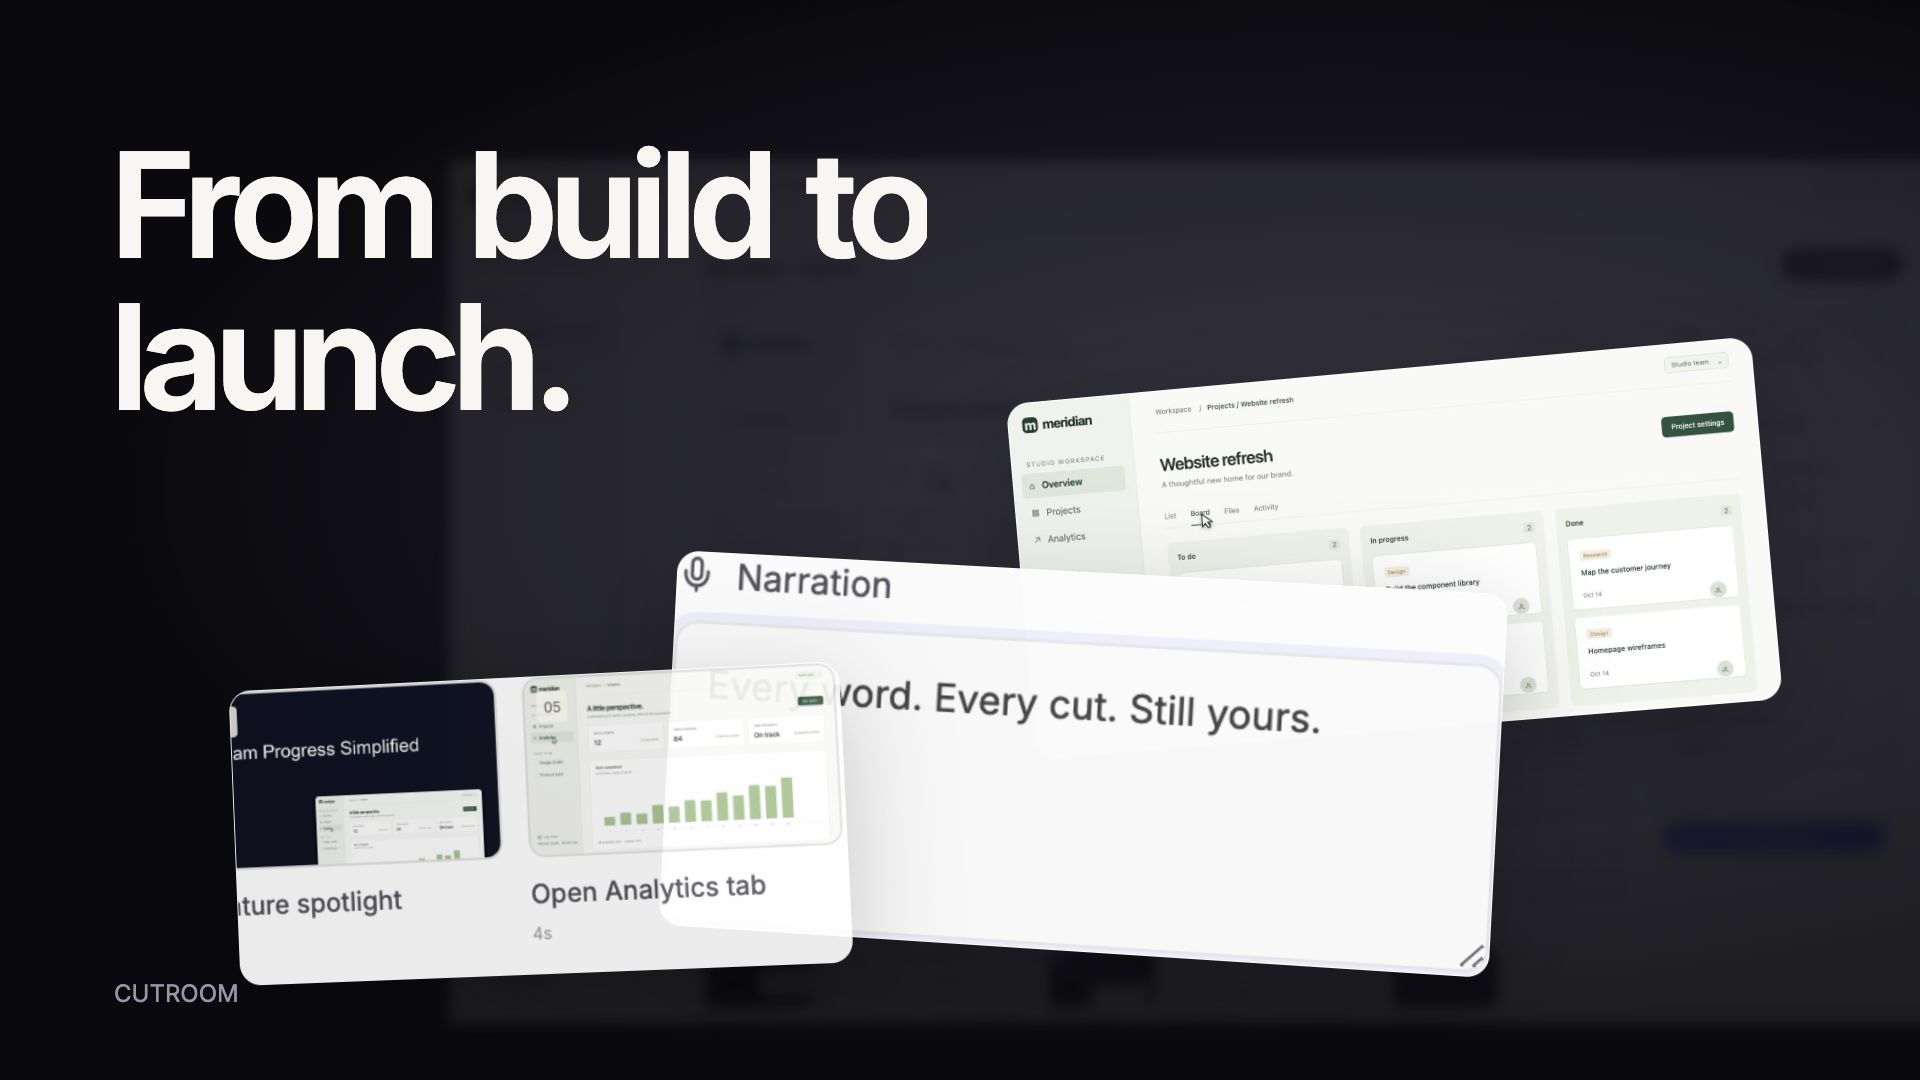
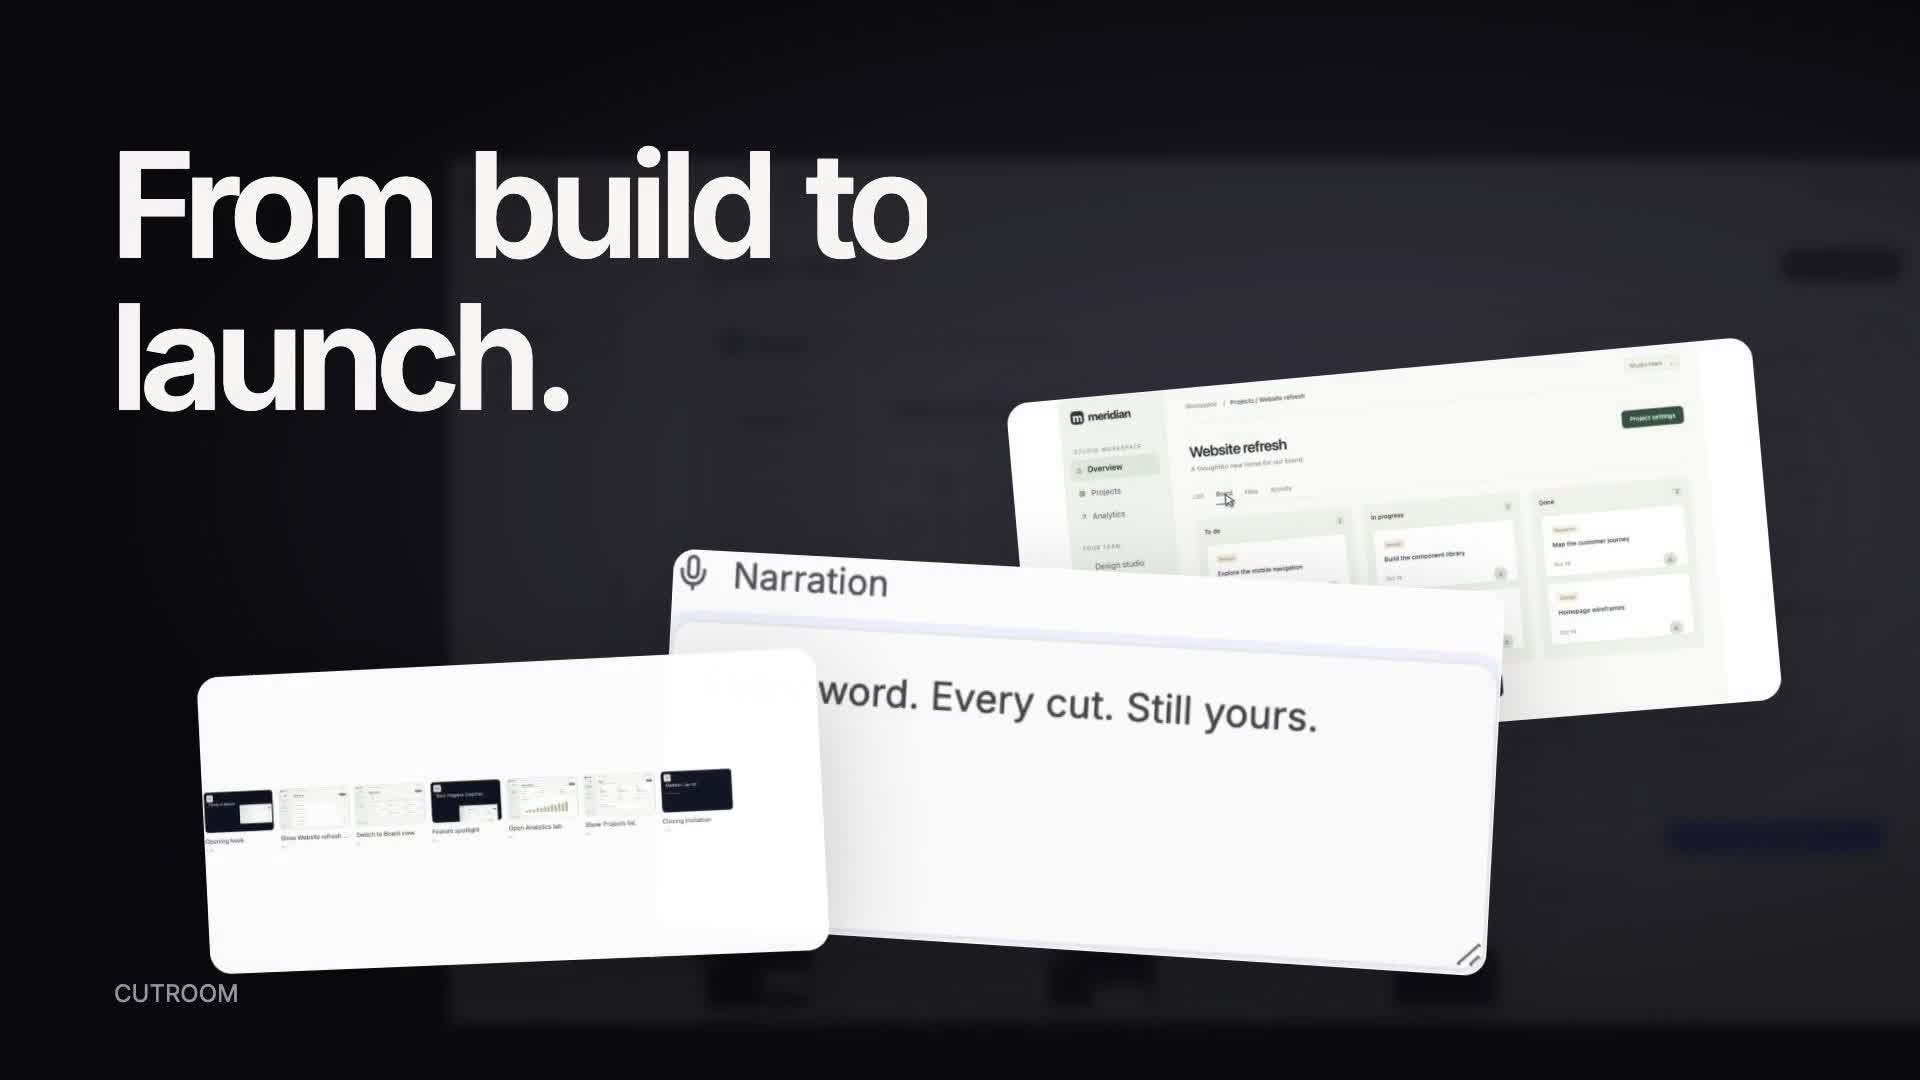
Align filmed results and frame meaningful product details

diff --git a/src/video/LaunchShot.tsx b/src/video/LaunchShot.tsx
@@ -105,13 +105,19 @@ export function LaunchShot(props: ShotProps) {
     const move = segment(t, 0.04, 0.34);
     const release = segment(t, 0.7, 1);
     const zoom = 1 + 0.62 * move * (1 - release);
+    const travel = move * (1 - release);
+    const offset = (center: number, size: number) =>
+      Math.max(
+        (-(zoom - 1) * size) / 2,
+        Math.min(((zoom - 1) * size) / 2, (0.5 - center) * size * zoom * travel),
+      );
     return (
       <AbsoluteFill style={{ background: bg }}>
         <Product
           props={props}
           style={{
-            transform: `scale(${zoom})`,
-            transformOrigin: `${focus.x * 100}% ${focus.y * 100}%`,
+            transform: `translate(${offset(focus.x, 1920)}px, ${offset(focus.y, 1080)}px) scale(${zoom})`,
+            transformOrigin: '50% 50%',
           }}
         />
         <div
@@ -249,10 +255,7 @@ export function LaunchShot(props: ShotProps) {
                 transform: `translate(${(1 - enter) * 380 + leave * (i - 1) * 650}px, ${(1 - enter) * 180 + leave * 280}px) rotateX(${mix(16, 0, enter)}deg) rotateY(${mix(-14, -3, enter)}deg) rotateZ(${[-5, 3, -3][i]}deg) scale(${mix(0.88, 1, enter)})`,
               }}
             >
-              <Img
-                src={src}
-                style={{ width: '100%', height: '100%', objectFit: 'cover', objectPosition: 'top' }}
-              />
+              <Img src={src} style={{ width: '100%', height: '100%', objectFit: 'contain' }} />
             </div>
           );
         })}

diff --git a/server/video_alignment.py b/server/video_alignment.py
@@ -1,0 +1,76 @@
+"""Find verified result screens on the recording's clock, not the browser's wall clock."""
+
+import re
+import subprocess
+from pathlib import Path
+
+import numpy as np
+from PIL import Image
+
+from server.video_render import FFMPEG
+
+
+def align_result_shots(raw: Path, folder: Path, scenes: list[dict]) -> None:
+    targets = []
+    for scene in scenes:
+        if scene.get("shot") != "result":
+            continue
+        name = scene.get("thumbnail", "")
+        if not re.fullmatch(r"scene-\d{1,2}\.jpg", name):
+            raise ValueError("Invalid screen evidence for recording alignment.")
+        with Image.open(folder / name) as image:
+            target = np.asarray(image.convert("L").resize((160, 90)), dtype=float)
+        targets.append((scene, target, []))
+    if not targets:
+        return
+    # Streaming keeps memory bounded even for long browser sessions.
+    with subprocess.Popen(
+        [
+            FFMPEG,
+            "-v",
+            "error",
+            "-i",
+            str(raw),
+            "-vf",
+            "fps=5,scale=160:90",
+            "-f",
+            "rawvideo",
+            "-pix_fmt",
+            "gray",
+            "-",
+        ],
+        stdout=subprocess.PIPE,
+        stderr=subprocess.DEVNULL,
+    ) as process:
+        while data := process.stdout.read(160 * 90):
+            if len(data) != 160 * 90:
+                raise ValueError("Incomplete frame while aligning recording.")
+            frame = np.frombuffer(data, dtype=np.uint8).reshape(90, 160).astype(float)
+            for _, target, scores in targets:
+                scores.append(float(np.mean(np.abs(frame - target))))
+        if process.wait():
+            raise ValueError("Could not align the captured product screens.")
+    previous_end = 0
+    for scene, _, values in targets:
+        scores = np.array(values)
+        times = np.arange(len(scores)) / 5
+        allowed = (times >= previous_end) & (abs(times - scene["start"]) <= 15)
+        if not allowed.any():
+            raise ValueError("No recorded frames match the requested shot order.")
+        best = float(np.min(scores[allowed]))
+        if best > 2.5:
+            raise ValueError(
+                "A result screen could not be verified in the recording. Try another take."
+            )
+        matches = np.flatnonzero(allowed & (scores <= best + 0.25))
+        runs = np.split(matches, np.where(np.diff(matches) > 1)[0] + 1)
+        runs = [run for run in runs if len(run) >= 4]
+        if not runs:
+            raise ValueError("The result screen did not stay visible long enough to film.")
+        run = min(runs, key=lambda r: abs(r[0] / 5 - scene["start"]))
+        # Leave a frame margin on each edge; the renderer holds the last real frame if needed.
+        start, end = float(run[0] / 5 + 0.1), float(run[-1] / 5 - 0.1)
+        scene["capture_start"], scene["capture_end"] = scene["start"], scene["end"]
+        scene["start"], scene["end"] = start, end
+        scene["alignment_error"] = round(best, 3)
+        previous_end = end

diff --git a/tests/test_video_composition.py b/tests/test_video_composition.py
@@ -9,6 +9,7 @@ from PIL import Image
 from pydantic import ValidationError
 
 from server import video_composition
+from server.video_alignment import align_result_shots
 from server.video_models import TimelineClip
 from server.video_render import ffmpeg, original_music, transition_cues
 
@@ -85,6 +86,39 @@ def test_only_reviewed_motion_presets_are_accepted():
     with pytest.raises(ValidationError):
         TimelineClip(id="x", motion="execute-javascript")
     assert TimelineClip(id="x").motion == "none"  # Old projects retain their original rendering.
+
+
+def test_result_alignment_finds_screen_despite_wrong_browser_clock(tmp_path, capture):
+    Image.new("RGB", (320, 180), "blue").save(tmp_path / "scene-0.jpg")
+    scenes = [{"shot": "result", "thumbnail": "scene-0.jpg", "start": 0, "end": 0.8}]
+    align_result_shots(capture, tmp_path, scenes)
+    assert scenes[0]["start"] >= 1
+    assert scenes[0]["end"] <= 2
+    assert scenes[0]["capture_start"] == 0
+
+
+def test_result_alignment_rejects_screen_absent_from_recording(tmp_path, capture):
+    Image.new("RGB", (320, 180), "white").save(tmp_path / "scene-0.jpg")
+    with pytest.raises(ValueError, match="could not be verified"):
+        align_result_shots(
+            capture,
+            tmp_path,
+            [{"shot": "result", "thumbnail": "scene-0.jpg", "start": 0, "end": 1}],
+        )
+
+
+def test_panel_treatment_without_regions_uses_complete_screen(tmp_path, capture, monkeypatch):
+    monkeypatch.setattr(video_composition, "run_compositor", lambda *args: None)
+    video_composition.prepare_compositions(
+        tmp_path,
+        capture,
+        [{"motion": "panels", "start": 0, "end": 1, "duration": 1}],
+        "paper",
+        [None],
+    )
+    job = json.loads((tmp_path / "motion-jobs.json").read_text())["jobs"][0]
+    assert job["preset"] == "reveal"
+    assert job["details"] == []
 
 
 def test_sound_cues_are_repeatable_and_do_not_clip(tmp_path):

diff --git a/server/video_service.py b/server/video_service.py
@@ -17,6 +17,7 @@ from fastapi import HTTPException
 
 from server.network import public_target
 from server.store import LOCAL_DEMO, Store
+from server.video_alignment import align_result_shots
 from server.video_models import (
     STOCK_VOICES,
     GenerateClipInput,
@@ -292,11 +293,12 @@ def film(store: Store, job: dict, body: VideoInput):
             if not completed:
                 raise ValueError("Recording exceeded its time limit. Try a shorter feature brief.")
             scenes = completed["scenes"]
-            job["payload"]["scenes"] = [{**scene, "narration": ""} for scene in scenes]
             raw = Path(completed["video"]).resolve()
             if raw.parent != folder:
                 raise ValueError("Invalid browser artifact.")
             (folder / "raw.webm").write_bytes(raw.read_bytes())
+            align_result_shots(folder / "raw.webm", folder, scenes)
+            job["payload"]["scenes"] = [{**scene, "narration": ""} for scene in scenes]
             event(
                 store,
                 job,

diff --git a/server/video_composition.py b/server/video_composition.py
@@ -105,15 +105,9 @@ def prepare_compositions(
             with Image.open(folder / name) as im:
                 im.convert("RGB").save(target)
             details.append(target.name)
-        if not details:
-            # Crop actual pixels for old recordings that predate element-level capture.
-            with Image.open(product) as im:
-                for j, box in enumerate(
-                    ((390, 210, 1380, 750), (810, 190, 1890, 820), (300, 490, 1380, 1060))
-                ):
-                    target = folder / f"motion-detail-{i}-{j}.png"
-                    im.crop(box).save(target)
-                    details.append(target.name)
+        if preset == "panels" and len(details) < 2:
+            # Unverified crops often magnify blank space. Reveal the complete real screen instead.
+            preset = "reveal"
         footage = None
         if preset == "detail":
             footage = folder / f"motion-footage-{i}.mp4"

diff --git a/server/video_timeline.py b/server/video_timeline.py
@@ -52,8 +52,9 @@ def launch_clips(
     # Keep source clips recoverable, but do not repeat an establishing screen before the feature.
     for clip, source in zip(originals, scenes, strict=True):
         clip["enabled"] = not (len(scenes) > 1 and source.get("action") == "overview")
-        clip["camera"] = "push" if source.get("shot") == "result" else "wide"
-        clip["motion"] = "detail" if source.get("shot") == "result" else "none"
+        has_detail = source.get("shot") == "result" and bool(source.get("details"))
+        clip["camera"] = "wide"
+        clip["motion"] = "detail" if has_detail else "none"
     scripts = plan.get("narration", [])
     if isinstance(scripts, list) and len(scripts) == len(originals):
         for clip, script in zip(originals, scripts, strict=True):

diff --git a/tests/test_video_timeline.py b/tests/test_video_timeline.py
@@ -94,6 +94,17 @@ def test_launch_plan_contains_real_captures_between_three_editable_cards():
     assert len(compile_timeline(source, [TimelineClip.model_validate(c) for c in draft])) == 5
 
 
+def test_launch_camera_only_targets_verified_detail_regions():
+    scenes = job()["payload"]["scenes"]
+    for scene in scenes:
+        scene["shot"] = "result"
+    scenes[1]["details"] = ["detail-1-0.png"]
+    clips = [c for c in launch_clips(scenes, "Product") if c["kind"] == "browser"]
+    assert clips[0]["motion"] == "none"
+    assert clips[0]["camera"] == "wide"
+    assert clips[1]["motion"] == "detail"
+
+
 def test_veo_uses_bounded_duration_and_actionable_quota_error(monkeypatch):
     monkeypatch.setattr(
         video_generation,

diff --git a/README.md b/README.md
@@ -48,7 +48,7 @@ Open **http://127.0.0.1:5173**. The browser creates an anonymous Supabase worksp
 
 The default **Launch film** targets 30 seconds, with 2–4-second shots, brief animated typography, full-screen product footage, and clean cuts. Opening and spotlight reveals expand the exact first frame of the following trimmed shot to fill the canvas. The redundant overview is cut but can be restored. Typography is silent by default, reserving narration for product footage. **Product walkthrough** keeps only browser footage. In existing projects, **Add launch sequence** drafts opening, benefit, and closing copy and shortens narration from the verified captured scenes. Every line remains editable. Cuts are non-destructive: original captures remain intact, and a cut scene can be restored.
 
-New launch plans use frame-driven **Remotion** compositions: continuous product reveals, layered interface details, a closer camera that returns to the overview, and masked word reveals. Browser capture records at 1080p and saves higher-resolution screenshots of visible interface regions. Existing captures use crops of their actual pixels when separate elements are unavailable. In **Script → Motion treatment**, choose or remove a treatment for each shot; MCP accepts the same `motion` field (`none`, `reveal`, `panels`, `detail`, `resolve`). Old saved timelines keep their original rendering until edited. Long speech still extends its shot; the composition is retimed with it.
+New launch plans use frame-driven **Remotion** compositions: continuous product reveals, layered interface details, a closer camera that returns to the overview, and masked word reveals. Browser capture records at 1080p and saves higher-resolution screenshots of visible interface regions. When fewer than two verified regions are available, the layered treatment uses a complete-screen reveal instead. Result shots are matched against their captured screen evidence to correct recording-clock drift before scripting; unverifiable results stop the take for review. In **Script → Motion treatment**, choose or remove a treatment for each shot; MCP accepts the same `motion` field (`none`, `reveal`, `panels`, `detail`, `resolve`). Old saved timelines keep their original rendering until edited. Long speech still extends its shot; the composition is retimed with it.
 
 The worker renders reviewed compositions rather than executing generated code. It serves only the current job’s allowlisted assets on a temporary loopback server, bundles fonts locally, and caches the compiled composition plus unchanged rendered shots. Cancellation stops the compositor process group. Original captures, credentials, and unrelated files are not copied into the composition bundle. Remotion is source-available with [license conditions](https://www.remotion.dev/docs/license/faq); evaluate the applicable license before commercial scaling.
 
